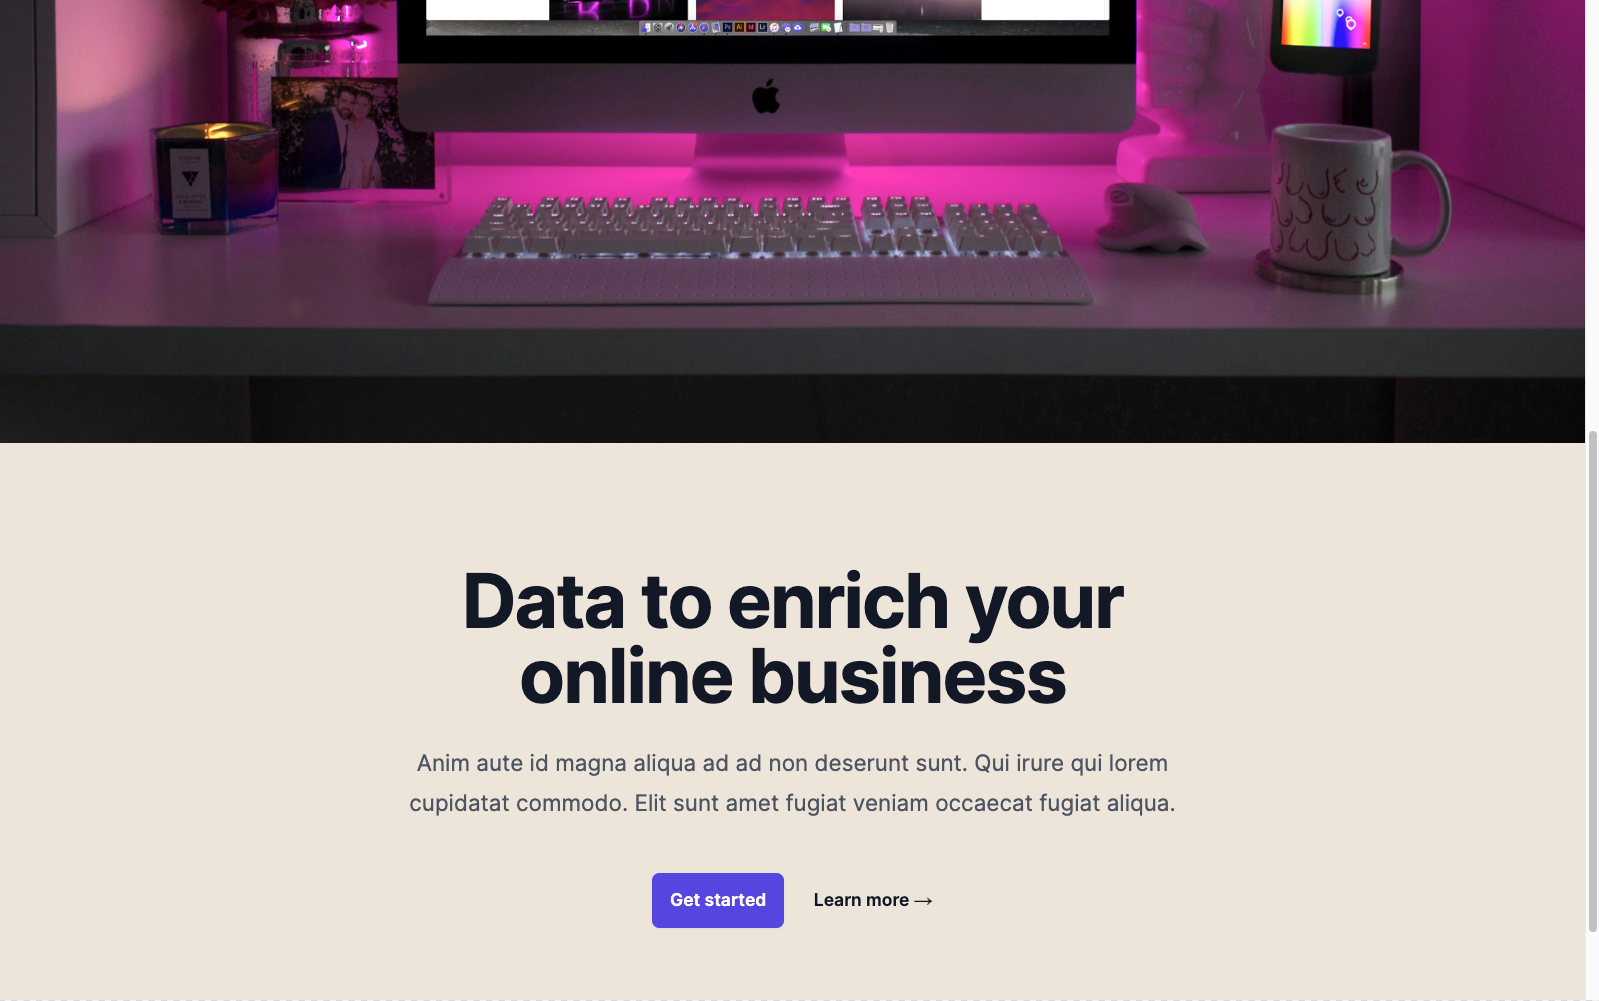
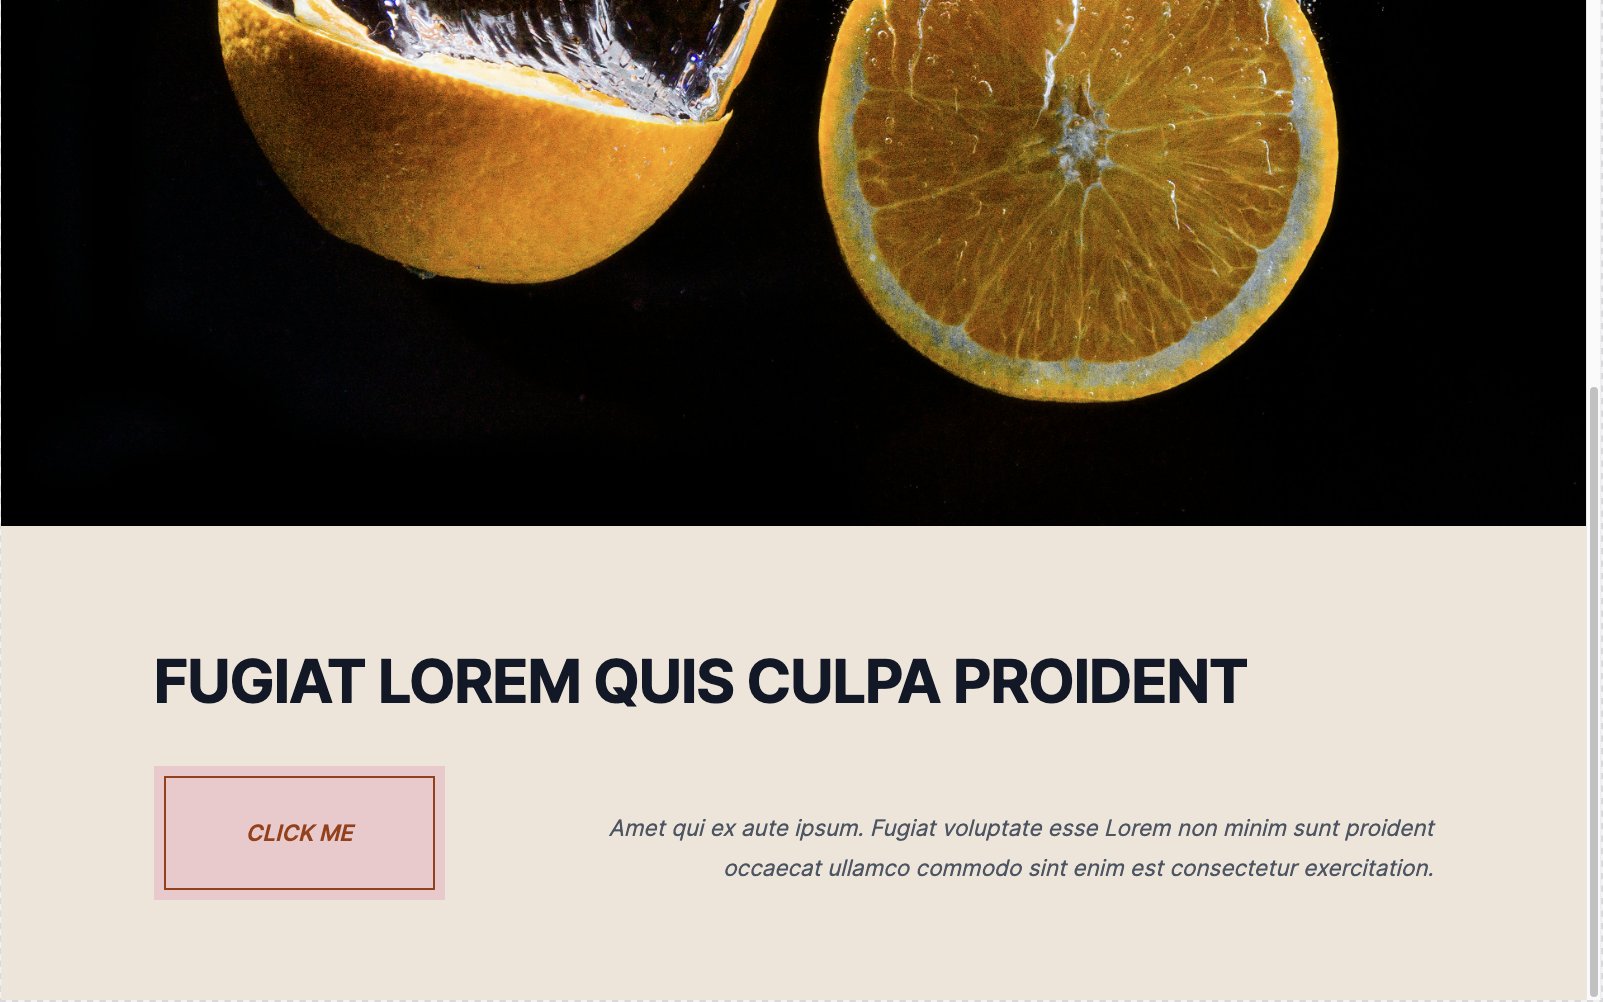
feat: Hero slice updates

diff --git a/src/slices/HeroImage/index.tsx b/src/slices/HeroImage/index.tsx
@@ -26,25 +26,13 @@ const HeroImage = ({ slice }: HeroImageProps): JSX.Element => {
     <section
       data-slice-type={slice.slice_type}
       data-slice-variation={slice.variation}
-      className="bg-main-bg relative isolate pt-12 sm:pt-16 lg:pt-20"
+      className="bg-main-bg relative isolate pt-0"
     >
-      {/* <div
-        className="absolute inset-x-0 -top-40 -z-10 transform-gpu overflow-hidden blur-3xl sm:-top-80"
-        aria-hidden="true"
-      >
-        <div
-          className="relative left-[calc(50%-11rem)] aspect-[1155/678] w-[36.125rem] -translate-x-1/2 rotate-[30deg] bg-gradient-to-tr from-[#ff80b5] to-[#9089fc] opacity-30 sm:left-[calc(50%-30rem)] sm:w-[72.1875rem]"
-          style={{
-            clipPath:
-              'polygon(74.1% 44.1%, 100% 61.6%, 97.5% 26.9%, 85.5% 0.1%, 80.7% 2%, 72.5% 32.5%, 60.2% 62.4%, 52.4% 68.1%, 47.5% 58.3%, 45.2% 34.5%, 27.5% 76.7%, 0.1% 64.9%, 17.9% 100%, 27.6% 76.8%, 76.1% 97.7%, 74.1% 44.1%)'
-          }}
-        />
-      </div> */}
       <div className="pb-12 sm:pb-16 lg:pb-20">
         {/* mt-16 flow-root sm:mt-24 */}
         <div className="flow-root">
           {/* -m-2 rounded-xl bg-gray-900/5 p-2 ring-1 ring-inset ring-gray-900/10 lg:-m-4 lg:rounded-2xl lg:p-4 */}
-          <div className="bg-main-bg min-w-full">
+          <div className="bg-main-bg relative h-[calc(88dvh-120px)] min-h-[calc(88dvh-120px)] min-w-full overflow-hidden sm:h-[652px] sm:min-h-[652px]">
             {/* <img
                   src="https://tailwindui.com/img/component-images/project-app-screenshot.png"
                   alt="App screenshot"
@@ -53,7 +41,15 @@ const HeroImage = ({ slice }: HeroImageProps): JSX.Element => {
                   className="rounded-md shadow-2xl ring-1 ring-gray-900/10"
                 /> */}
             {isFilled.image(slice.primary.image) && (
-              <PrismicNextImage field={slice.primary.image} className="min-w-full" />
+              <PrismicNextImage
+                field={slice.primary.image}
+                // imgixParams={{ crop: 'faces,edges,center', fit: 'crop', h:652, minH: 652 }}
+                className="object-cover"
+                // height={652}
+                // style={{ objectFit: 'cover' }}
+                priority
+                fill
+              />
             )}
           </div>
         </div>
@@ -64,12 +60,12 @@ const HeroImage = ({ slice }: HeroImageProps): JSX.Element => {
                 <PrismicRichText field={slice.primary.title} />
               </div>
             )}
-            <div className="mt-6 flex flex-col-reverse items-center justify-center gap-x-12 sm:mt-10 sm:flex-row">
+            <div className="mt-8 flex flex-col-reverse items-center justify-center gap-x-12 sm:mt-10 sm:flex-row">
               <div className="bg-pink mt-8 min-w-fit p-2 hover:bg-rose-300 sm:mt-0">
                 {isFilled.link(slice.primary.cta_link) ? (
                   <PrismicNextLink
                     field={slice.primary.cta_link}
-                    className="border-red text-red inline-block text-nowrap border-2 border-solid px-16 py-7 text-lg font-semibold focus-visible:outline focus-visible:outline-4 focus-visible:outline-offset-8 focus-visible:outline-rose-400"
+                    className="border-red text-red inline-block text-nowrap border-2 border-solid px-14 py-4 text-lg font-semibold focus-visible:outline focus-visible:outline-4 focus-visible:outline-offset-8 focus-visible:outline-rose-400"
                   >
                     {isFilled.richText(slice.primary.cta_text) && <PrismicRichText field={slice.primary.cta_text} />}
                   </PrismicNextLink>
@@ -83,28 +79,41 @@ const HeroImage = ({ slice }: HeroImageProps): JSX.Element => {
                 )}
               </div>
               {isFilled.richText(slice.primary.description) && (
-                <div className="mt-6 text-left text-lg leading-8 text-gray-600 sm:text-right">
-                  <PrismicRichText field={slice.primary.description} />
+                <div className="text-left text-lg leading-8 text-gray-600 sm:text-right">
+                  <PrismicRichText field={slice.primary.description} components={components} />
                 </div>
               )}
             </div>
           </div>
         </div>
       </div>
-      {/* <div
-        className="absolute inset-x-0 top-[calc(100%-13rem)] -z-10 transform-gpu overflow-hidden blur-3xl sm:top-[calc(100%-30rem)]"
-        aria-hidden="true"
-      >
-        <div
-          className="relative left-[calc(50%+3rem)] aspect-[1155/678] w-[36.125rem] -translate-x-1/2 bg-gradient-to-tr from-[#ff80b5] to-[#9089fc] opacity-30 sm:left-[calc(50%+36rem)] sm:w-[72.1875rem]"
-          style={{
-            clipPath:
-              'polygon(74.1% 44.1%, 100% 61.6%, 97.5% 26.9%, 85.5% 0.1%, 80.7% 2%, 72.5% 32.5%, 60.2% 62.4%, 52.4% 68.1%, 47.5% 58.3%, 45.2% 34.5%, 27.5% 76.7%, 0.1% 64.9%, 17.9% 100%, 27.6% 76.8%, 76.1% 97.7%, 74.1% 44.1%)'
-          }}
-        />
-      </div> */}
     </section>
   )
 }
 
 export default HeroImage
+
+// {/* <div
+//   className="absolute inset-x-0 -top-40 -z-10 transform-gpu overflow-hidden blur-3xl sm:-top-80"
+//   aria-hidden="true"
+// >
+//   <div
+//     className="relative left-[calc(50%-11rem)] aspect-[1155/678] w-[36.125rem] -translate-x-1/2 rotate-[30deg] bg-gradient-to-tr from-[#ff80b5] to-[#9089fc] opacity-30 sm:left-[calc(50%-30rem)] sm:w-[72.1875rem]"
+//     style={{
+//       clipPath:
+//         'polygon(74.1% 44.1%, 100% 61.6%, 97.5% 26.9%, 85.5% 0.1%, 80.7% 2%, 72.5% 32.5%, 60.2% 62.4%, 52.4% 68.1%, 47.5% 58.3%, 45.2% 34.5%, 27.5% 76.7%, 0.1% 64.9%, 17.9% 100%, 27.6% 76.8%, 76.1% 97.7%, 74.1% 44.1%)'
+//     }}
+//   />
+// </div> */}
+// {/* <div
+//   className="absolute inset-x-0 top-[calc(100%-13rem)] -z-10 transform-gpu overflow-hidden blur-3xl sm:top-[calc(100%-30rem)]"
+//   aria-hidden="true"
+// >
+//   <div
+//     className="relative left-[calc(50%+3rem)] aspect-[1155/678] w-[36.125rem] -translate-x-1/2 bg-gradient-to-tr from-[#ff80b5] to-[#9089fc] opacity-30 sm:left-[calc(50%+36rem)] sm:w-[72.1875rem]"
+//     style={{
+//       clipPath:
+//         'polygon(74.1% 44.1%, 100% 61.6%, 97.5% 26.9%, 85.5% 0.1%, 80.7% 2%, 72.5% 32.5%, 60.2% 62.4%, 52.4% 68.1%, 47.5% 58.3%, 45.2% 34.5%, 27.5% 76.7%, 0.1% 64.9%, 17.9% 100%, 27.6% 76.8%, 76.1% 97.7%, 74.1% 44.1%)'
+//     }}
+//   />
+// </div> */}

diff --git a/prismicio-types.d.ts b/prismicio-types.d.ts
@@ -797,7 +797,7 @@ export interface HeroImageSliceDefaultPrimary {
    * Title field in *HeroImage → Primary*
    *
    * - **Field Type**: Rich Text
-   * - **Placeholder**: *None*
+   * - **Placeholder**: Perferendis Repellendus Magnam Nemo
    * - **API ID Path**: hero_image.primary.title
    * - **Documentation**: https://prismic.io/docs/field#rich-text-title
    */
@@ -807,27 +807,17 @@ export interface HeroImageSliceDefaultPrimary {
    * Description field in *HeroImage → Primary*
    *
    * - **Field Type**: Rich Text
-   * - **Placeholder**: *None*
+   * - **Placeholder**: Officia ex cupidatat et anim ut ullamco tempor laboris pariatur ex officia sint.
    * - **API ID Path**: hero_image.primary.description
    * - **Documentation**: https://prismic.io/docs/field#rich-text-title
    */
   description: prismic.RichTextField
 
   /**
-   * Max Width field in *HeroImage → Primary*
-   *
-   * - **Field Type**: Number
-   * - **Placeholder**: 0 = full width
-   * - **API ID Path**: hero_image.primary.max_width
-   * - **Documentation**: https://prismic.io/docs/field#number
-   */
-  max_width: prismic.NumberField
-
-  /**
    * CTA Text field in *HeroImage → Primary*
    *
    * - **Field Type**: Rich Text
-   * - **Placeholder**: *None*
+   * - **Placeholder**: CLICK ME
    * - **API ID Path**: hero_image.primary.cta_text
    * - **Documentation**: https://prismic.io/docs/field#rich-text-title
    */
@@ -837,11 +827,22 @@ export interface HeroImageSliceDefaultPrimary {
    * CTA Link field in *HeroImage → Primary*
    *
    * - **Field Type**: Link
-   * - **Placeholder**: *None*
+   * - **Placeholder**: Link to another page
    * - **API ID Path**: hero_image.primary.cta_link
    * - **Documentation**: https://prismic.io/docs/field#link-content-relationship
    */
   cta_link: prismic.LinkField
+
+  /**
+   * Max Width field in *HeroImage → Primary*
+   *
+   * - **Field Type**: Select
+   * - **Placeholder**: *None*
+   * - **Default Value**: default
+   * - **API ID Path**: hero_image.primary.max_width
+   * - **Documentation**: https://prismic.io/docs/field#select
+   */
+  max_width: prismic.SelectField<'default' | 'full' | 'tight' | 'loose', 'filled'>
 }
 
 /**
